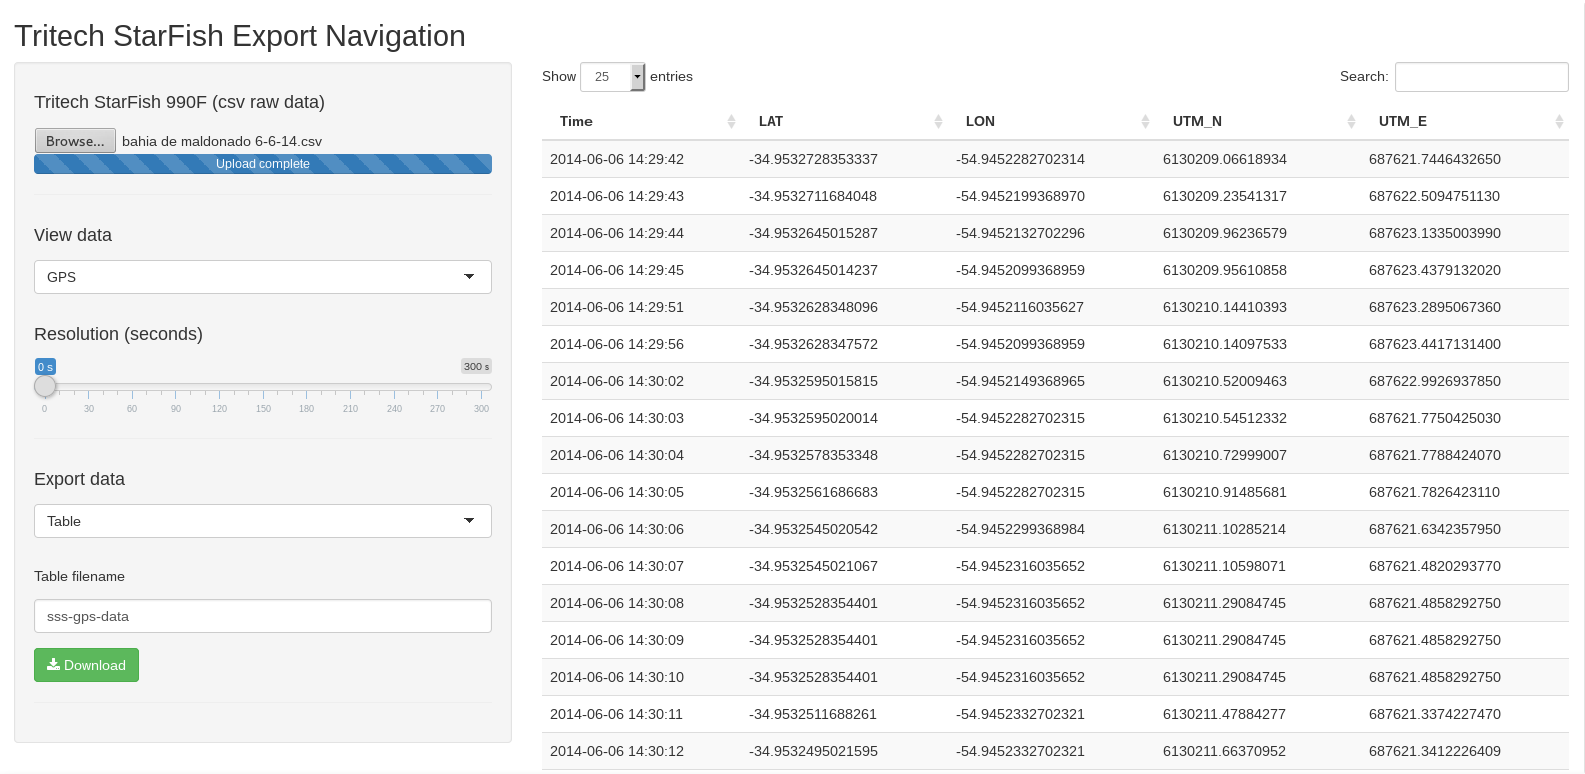
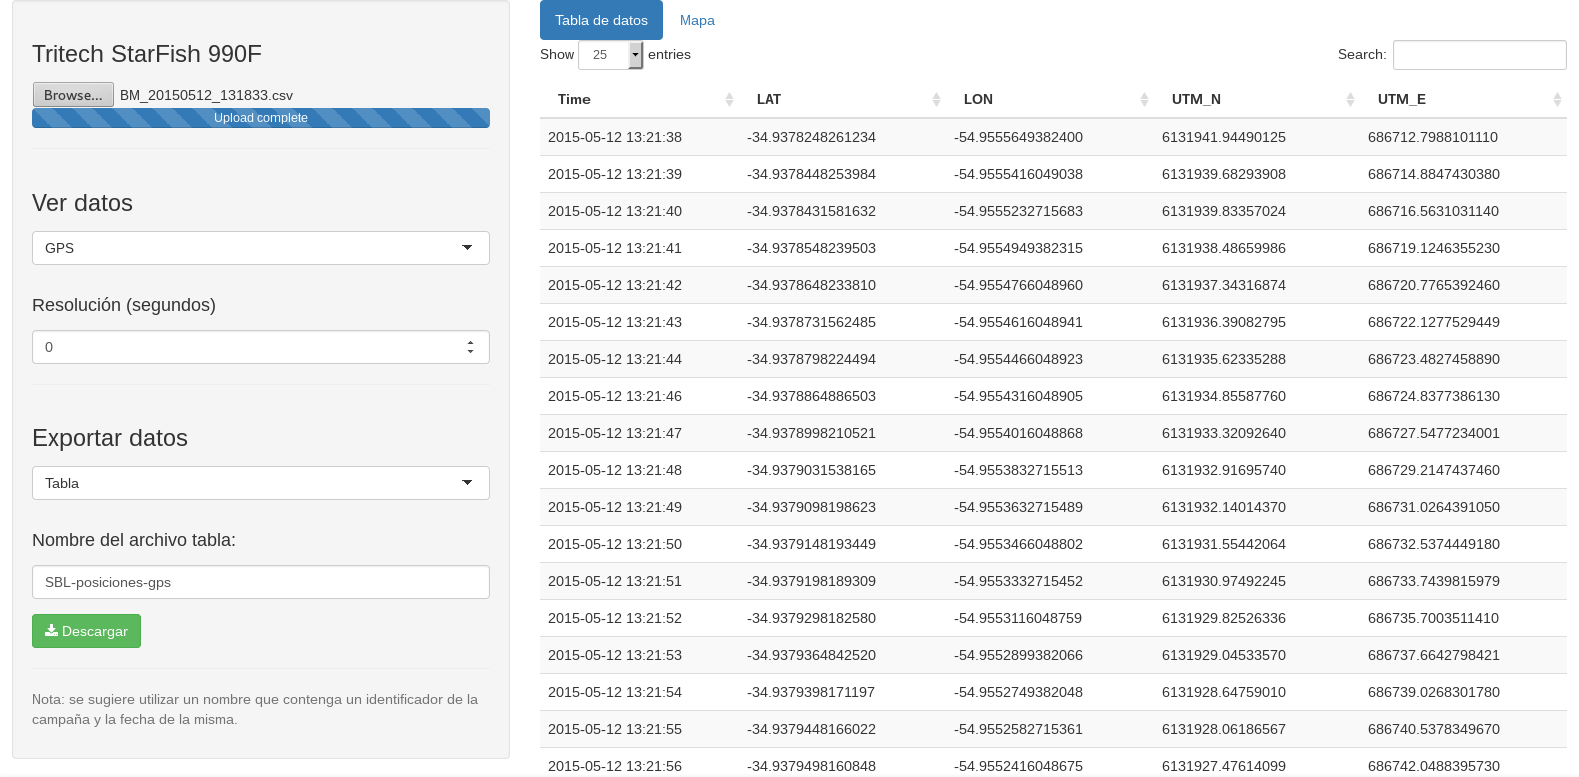
add map screenshot

diff --git a/README.md b/README.md
@@ -9,7 +9,7 @@ With this tool you can import [Tritech StarFish 990F](http://www.tritech.co.uk/p
 - ESRI Shapefiles (.shp)
 - KML file format (.kml)
 
-The aim of this software is "fast extract" of the navigation data to visualize it on a GIS software like [QGIS](http://www.qgis.org "QGIS webpage").
+The aim of this software is "fast extract" of the navigation data to visualize it on a GIS software like [QGIS](http://www.qgis.org "QGIS webpage") or in a web map in the "Maps" tab.
 
 You can run a demo [here](https://glopez.shinyapps.io/StarFishNavigation "shinyapps.io"), but I suggest run it locally using R because the csv raw files are generally big files (hundreds of megabytes) to upload over internet.
 
@@ -18,22 +18,22 @@ R packages dependencies
 
 ```R
 library('shiny')
+library('xts')
 library('sp')
 library('maptools')
-library('geosphere')
-library('stringr')
-library('xts')
+library('rgdal')
+library('leaflet')
 ```
 
 To install the requiered packages you can execute in R:
 
 ```R
 install.packages("shiny")
-install.packages("stringr")
 install.packages("xts")
 install.packages("sp")
 install.packages("maptools")
 install.packages("rgdal")
+install.packages("leaflet")
 ```
 
 Run the app
@@ -49,10 +49,12 @@ Screenshot
 ===
 
 ![Image](https://raw.githubusercontent.com/guzmanlopez/StarFishNavigation/master/images/screenshot01.png)
+![Image](https://raw.githubusercontent.com/guzmanlopez/StarFishNavigation/master/images/screenshot02.png)
 
 Future developments
 ===
 
+- Fix map bugs
 - Extract and show the backscatter data.
 
 
